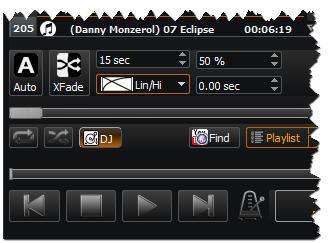
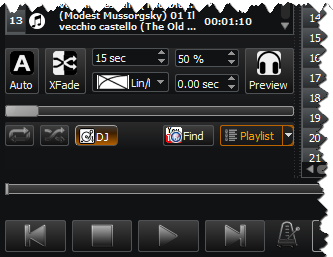
User Guide

diff --git a/docs/index_el.md b/docs/index_el.md
@@ -8,6 +8,7 @@
 * [Λεπτομερείς πληροφορίες](#λεπτομερείς-πληροφορίες)
     * [Λίστα αναπαραγωγής](#λίστα-αναπαραγωγής)
       * [DJ πάνελ](#dj-πάνελ)
+      * [Προεπισκόπηση](#προεπισκόπηση)
       * [Εύρεση](#εύρεση)
       * [Οπτικοποιητής](#οπτικοποιητής)
     * [Έλεγχος αναπαραγωγής](#έλεγχος-αναπαραγωγής)
@@ -246,10 +247,30 @@ ___
   Αυτό είναι η αρχική στάθμη έντασης του επόμενου κομματιού. Το κομμάτι θα δυναμώσει από αυτή τη στάθμη μέχρι το 100%.
 - **Χρόνος εκκίνησης**  
   Εδώ μπορούμε να επιλέξουμε το χρονικό σημείο από όπου θα ξεκινήσει το επόμενο κομμάτι.
+- **Προεπισκόπηση**  
+  Από αυτό το κουμπί ανοίγει το παράθυρο της [Προεπισκόπησης](#προεπισκόπηση) για να ακούσουμε πιο κομμάτι θέλουμε για επόμενο.
 - **Μίκτης**  
   Πραγματοποιεί μία μίξη χειροκίνητα.  
   Μετακινώντας αυτή την μπάρα, αλλάζει ταυτόχρονα η ένταση τόσο του αναπαραγόμενου κομματιού (χαμηλώνει όσο η μπάρα μετακινείται προς τα δεξιά) όσο και του επόμενου κομματιού (δυναμώνει όσο η μπάρα μετακινείται προς τα δεξιά).  
   Στο τέρμα δεξιά, η μίξη τελειώνει και η μπάρα επιστρέφει στην αρχική της θέση.  
+
+#### Προεπισκόπηση
+
+![Preview.png](images/Preview.png)
+
+Αυτό το παράθυρο μας επιτρέπει να ακούσουμε το επόμενο κομμάτι, π.χ. πριν κάνουμε μια μίξη.  
+Αυτή η αναπαραγωγή είναι ανεξάρτητη από την κανονική που παίζει τα κομμάτια, οπότε μπορούμε να τσεκάρουμε/σταματήσουμε οποιοδήποτε άλλο κομμάτι της λίστας, χωρίς να επηρεάζουμε τη φυσιολογική της ροή.  
+Ο ήχος της προεπισκόπησης βγαίνει από την έξοδο Ακουστικών που έχουμε επιλέξει στις [Προτιμήσεις](#προτιμήσεις).  
+
+Το παράθυρο περιέχει τα εξής:
+
+- Η **Μπάρα θέσης** μας επιτρέπει να μετακινηθούμε μέσα σε ένα κομμάτι.  
+  Όταν απλώς έχουμε το ποντίκι επάνω της, μας δείχνει τον χρόνο που έχει περάσει από την αρχή του κομματιού όπως επίσης και τον υπολειπόμενο χρόνο.
+- Το κουμπί **Αναπαραγωγή/Παύση** του επιλεγμένου κομματιού.
+- Το κουμπί **Ορισμός ως επόμενο** μετακινεί το επιλεγμένο κομμάτι αμέσως μετά από το κομμάτι που παίζει, ετοιμάζοντας το για σημάδεμα ή μιξάρισμα.
+- Το **Σημάδεμα εκκίνησης** ορίζει τον [Χρόνο εκκίνησης](#dj-πάνελ), δηλαδή από ποιο σημείο θα αρχίσει η αναπαραγωγή του κομματιού όταν θα γίνει η μίξη.
+- Η Οθόνη χρόνου εναλλάσσεται με κλικ μεταξύ του χρόνου από την αρχή του κομματιού είτε του εναπομείναντα χρόνου.
+- Η μπάρα **Έντασης** αλλάζει την ένταση των ακουστικών. 
 
 #### Εύρεση
 
@@ -509,6 +530,7 @@ ___
   Ξεκινά αυτόματα την αναπαραγωγή, εάν ένα αρχείο ή μια λίστα αναπαραγωγής έχει ανοιχτεί με το KataLib και η λίστα αναπαραγωγής είναι κενή.
 - **Υποστήριξη έντασης πολυμέσων**  
   Επιτρέπει τη χρήση των πλήκτρων πολυμέσων για τον έλεγχο της έντασης αναπαραγωγής της συσκευής αναπαραγωγής. 
+- Ο **Τομέας Εξόδου** μας επιτρέπει να επιλέξουμε ανεξάρτητα την κύρια έξοδο ήχου για τα ηχεία και την έξοδο για τα ακουστικά που χρησιμοποιεί η [Προεπισκόπηση](#προεπισκόπηση).
 - **Αυτόματος έλεγχος για ενημερώσεις**  
  Αυτόματος έλεγχος στο διαδίκτυο για ενημερωμένη έκδοση.
 - **Διατήρηση ημερομηνίας**  
@@ -775,7 +797,7 @@ ___
   Αν επιλεγεί μόνο ένα κομμάτι του YouTube, εμφανίζεται ένα υπομενού με τα διαθέσιμα αρχεία βίντεο (βίντεο και ήχου) που μπορούμε να κατεβάσουμε ή να παρακολουθήσουμε.
 - **[Μετατροπή](#μετατροπή)**
 - **[Ενέργειες αρχείων](#files)** (υπό-μενού)
-- **[Λιστα](#μενού-λίστα-αναπαραγωγής)** (υπό-μενού)
+- **[Λιστα](#μενού-λίστας-αναπαραγωγής)** (υπό-μενού)
 - **Αποθήκευση σε νέα Λίστα** αναπαραγωγής και δημιουργία μιας **Νέας συλλογής βιβλιοθήκης** εάν έχουν επιλεγεί περισσότερα από ένα κομμάτια.
 - Η επιλογή **Προσθήκη στην επιλεγμένη Συλλογή** προσθέτει τα τρέχοντα επιλεγμένα κομμάτια στην τρέχουσα επιλεγμένη Συλλογή.
 - **Σημείο αναπαραγωγής**  
@@ -993,6 +1015,7 @@ ___
 | Επανάληψη όλων                     | Alt+R      |
 | Ανακάτεμα                          | Alt+S      |
 | Κατάσταση DJ                       | Alt+D      |
+| Προεπισκόπηση                      | Ctrl+Κενό  |
 
    
 **Γενικές συντομεύσεις**

diff --git a/docs/index.md b/docs/index.md
@@ -8,6 +8,7 @@
 * [Detailed info](#detailed-info)
     * [Playlist](#playlist)
       * [DJ sub-panel](#dj-sub-panel)
+      * [Preview - Cue dialog](#preview---cue-dialog)
       * [Find](#find)
       * [Visualizer](#visualizer)
     * [Transport](#transport)
@@ -250,10 +251,32 @@ The DJ controls are:
   This is the next track's starting level percent. The track will fade in from this level to the 100% playback level.
 - **Position offset**  
   Here we can select the next track's starting position.
+- **Preview**  
+  Opens the [Preview - Cue](#preview---cue-dialog) dialog to preview/listen for the next track.  
 - **CrossFader**  
   Do a crossfade manually.  
   Moving this slider, simultaneously changes the volumes of both the playing track (lower as the slider moves to the right) and the next track (louder as the slider moves to the right).  
   At the far right, the crossfade ends, and the slider returns to its initial position.  
+
+#### Preview - Cue dialog
+
+![Preview.png](images/Preview.png)
+
+This dialog lets us preview/listen to the next track, before we do a crossfade.  
+This is a different player than the one that plays the track, so it can be paused, stopped, etc.  
+It plays whatever track we select from the Playlist or Library.  
+Its output can be configured in the [Preferences](#preferences) to be different from the main player's output, so we can preview the track using headphones or another audio system.  
+
+The controls are:  
+
+- The track's **slider** that let us seek inside the track.  
+  When positioning the mouse over it without clicking, it will show the track's elapsed and remaining time at the specific slider's position. 
+- The **Play/Pause** button, that starts/pauses the preview.  
+- The **Set as next** button, moves the currently selected track after the playing one, setting it ready for crossfade and/or **Mark**  (not working when playing a file from Library)  
+- The **Mark Offset** button, sets the start [Position Offset](#dj-sub-panel) for the track that will be crossfaded with the playing one (only works if the track after the playing one is selected)  
+- The **Time display** can be toggled between elapsed and remaining time.
+- The **Volume** slider controls the preview's audio level.
+
 
 #### Find
 
@@ -523,6 +546,7 @@ There are five pages in the Preferences dialog:
   Automatically starts playback if a file or a playlist is opened with KataLib, and the Playlist is empty.
 - **Support Multimedia volume changes**  
   Enables the use of multimedia keys to control the playback volume of the player. 
+- The **Output section** let us select independently the audio device for the **Main out** of the player, and the **Phones out**, which is what the [Preview - Cue](#preview---cue-dialog) dialog uses.  
 - **Auto check for updates**  
   Automatically check online for an updated version.
 - **Keep modification date**  
@@ -1015,20 +1039,21 @@ ___
 | Play from position    | Alt+Period        |
 
 
-| **PlayList**               |            |
-|----------------------------|------------|
-| Load PlayList              | Ctrl+L     |
-| Save PlayList              | Ctrl+S     |
-| Clear PlayList             | Ctrl+Del   |
-| Reload PlayList            | F5         |
-| Add PlayList as Collection | Ctrl+Alt+S |
-| Find Track                 | Ctrl+F     |
-| Add Tracks (local files)   | Alt+A      |
-| Remove Tracks              | Del        |
-| Delete Tracks              | Shift+Del  |
-| Repeat All                 | Alt+R      |
-| Shuffle                    | Alt+S      |
-| DJ show/hide               | Alt+D      |
+| **PlayList**               |               |
+|----------------------------|---------------|
+| Load PlayList              | Ctrl+L        |
+| Save PlayList              | Ctrl+S        |
+| Clear PlayList             | Ctrl+Del      |
+| Reload PlayList            | F5            |
+| Add PlayList as Collection | Ctrl+Alt+S    |
+| Find Track                 | Ctrl+F        |
+| Add Tracks (local files)   | Alt+A         |
+| Remove Tracks              | Del           |
+| Delete Tracks              | Shift+Del     |
+| Repeat All                 | Alt+R         |
+| Shuffle                    | Alt+S         |
+| DJ show/hide               | Alt+D         |
+| Preview how/hide           | Ctrl+SpaceBar |
 
    
 **Hotkeys (Global Shortcuts)**
